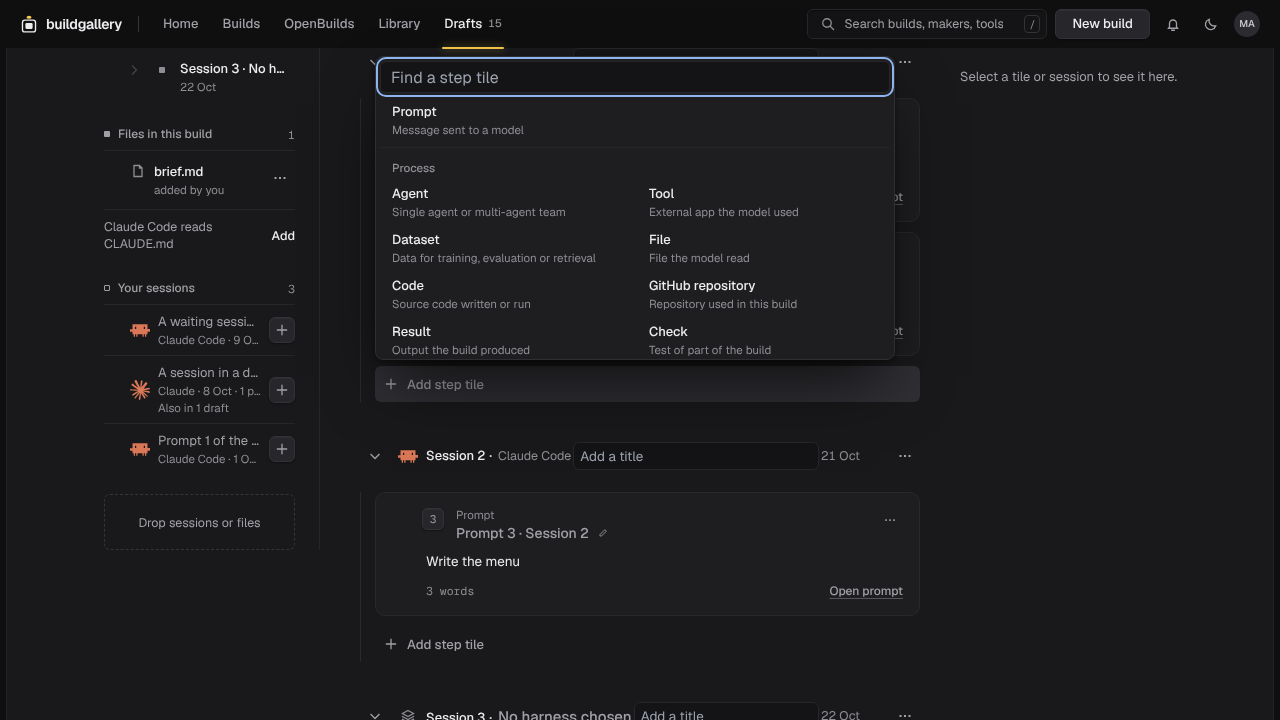
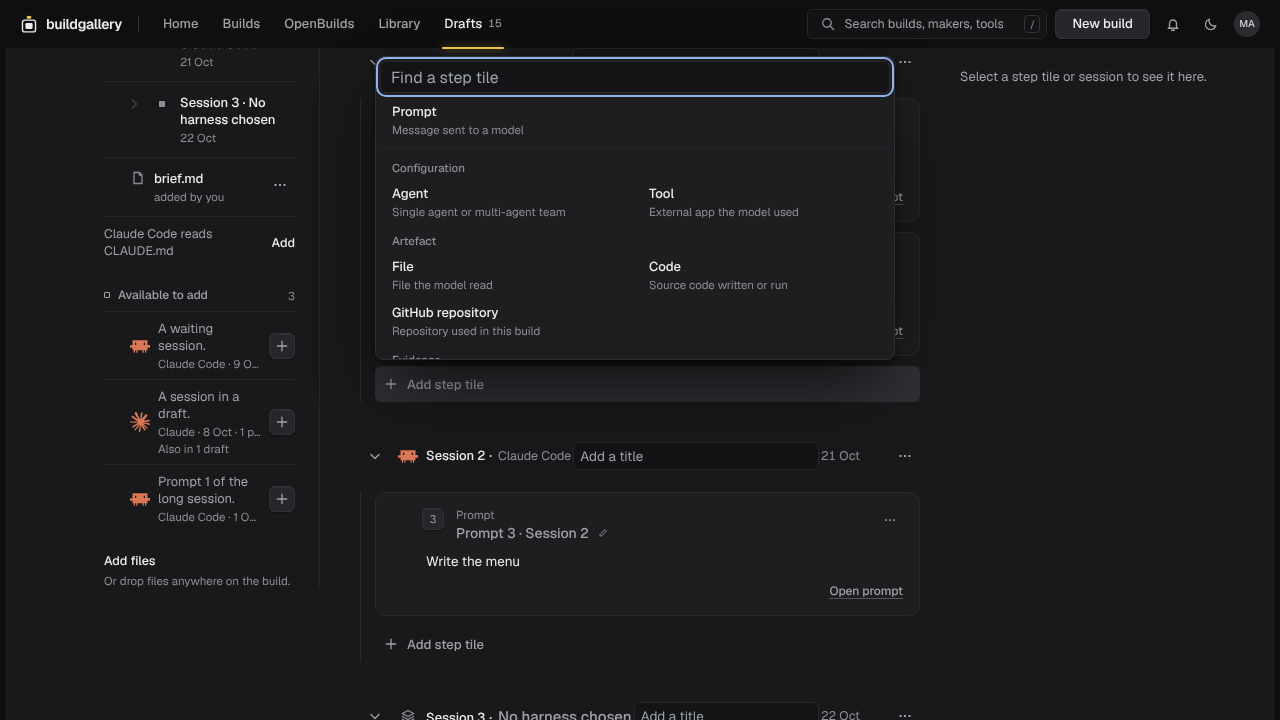
UX-02 P6: entries of a group of one stand apart; the screenshot pairs
The Add menu draws its separator before the entries whose group has one entry,
so none reads as a member of the last headed group. The UX-02 harness gives
the fake registry the seed migration's categories, so the shots show the real
grouping. Before and after screenshots at 1440 in Dusk and at 390, from main
and from this branch on one harness, in design/audits/composer/ux-02.

Claude-Session: https://claude.ai/code/session_01C37MWmMnPgCKzn9pPUCLxs

diff --git a/e2e/audit/support/ux02.ts b/e2e/audit/support/ux02.ts
@@ -7,6 +7,7 @@ import { readFileSync } from "node:fs";
 import { expect, type Page } from "@playwright/test";
 
 import { ACCESS_TOKEN, answer, MAKER_ID, REPO_SCHEMA, startAuditBackend, type Fault } from "../../../src/lib/build/__audit__/fakeSupabase";
+import { ADD_CATEGORY_FALLBACK } from "../../../src/pages/site/compose/addMenuGroups";
 
 const CORS = { "access-control-allow-origin": "*", "access-control-allow-headers": "*", "access-control-allow-methods": "*", "access-control-expose-headers": "content-range, content-profile" };
 export const DRAFT = "0d0d0d0d-0000-4000-8000-000000000003";
@@ -17,7 +18,16 @@ export const SOURCE_MEDIA = "0f1f1f1f-0000-4000-8000-000000000001";
 
 export type Row = Record<string, unknown>;
 
+/** The node types' categories as the seed migration has them (the fake's registry files every type under "process"). */
+function categorise(rows: Record<string, Row[]>) {
+  for (const type of rows.node_types ?? []) {
+    const category = ADD_CATEGORY_FALLBACK[String(type.key)];
+    if (category) type.category = category;
+  }
+}
+
 function seed(rows: Record<string, Row[]>) {
+  categorise(rows);
   const build = rows.builds.find((row) => row.id === DRAFT) as Row;
   build.title = "UX-02 draft";
   build.making = {

diff --git a/src/pages/site/compose/SandboxView.tsx b/src/pages/site/compose/SandboxView.tsx
@@ -630,6 +630,8 @@ export function AddMenu({ phone, targets, fixedSession, ...props }: AddMenuProps
               </div>
             </Fragment>
           ))}
+          {/* The entries of groups of one stand apart from the last headed group, so none reads as its member. */}
+          {layout.loose.length > 0 && layout.groups.length > 0 ? <Menu.Separator style={MENU_RULE} /> : null}
           {layout.loose.length > 0 ? (
             <div role="none" data-testid="add-loose" style={{ display: "grid", gridTemplateColumns: "1fr 1fr", columnGap: 4 }}>
               {layout.loose.map(desktopItem)}
